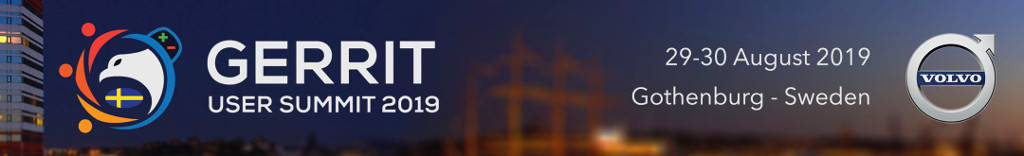
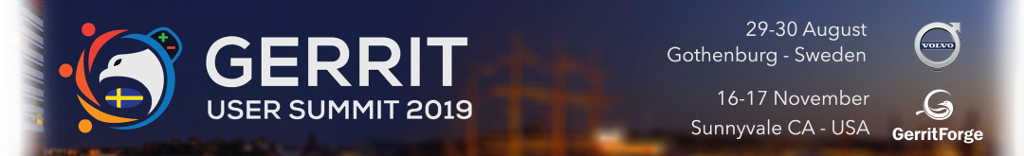
Add the send date/location for the Summit USA

diff --git a/index.md b/index.md
@@ -6,26 +6,67 @@ The Gerrit Community is happy to announce the Gerrit User Summit & Hackathon 201
 THE event of the year for everything related to Gerrit Code Review and the
 trunk-based development pipeline.
 
-## Where
+## One Summit, two events
 
-The Gerrit User Summit & Hackathon is hosted by [Volvo Cars at their HQ in Gothenburg
-(Sweden)](https://goo.gl/maps/rsjB5vsFXE2tQ5i6A) in cooperation with [GerritForge](http://www.gerritforge.com) and the [Gerrit Community](https://groups.google.com/forum/#!topic/repo-discuss/uVQbBOC9IeU).
+The Gerrit User Summit & Hackathon is composed of **two different events and locations**,
+one in Sweden (Europe) and another in California (USA), to allow most of the community around
+the globe to attend and share their experience and ideas.
 
-## When
-
-The event starts with a 5-days Hackathon 24-28th August reserved for the current
+The first part of the event is a 5-days Hackathon reserved for the current
 Gerrit contributors and maintainers plus anyone that is willing to start contributing
 to the platform.
 
-It will then follow with a 2-days summit 29-30th August opened to all the members
+It will then follow with a 2-days Users Summit opened to all the members
 of the community or who is willing to learn and adopt Gerrit Code Review in their
 development process.
 
-The registration for the Hackathon and the User Summit is opened to
+> Please note that the seats for the Hackathon are limited and your request could be declined by
+> the organizer. We will do our best, however, to get people in and help increasing the community
+> of contributors.
+
+## How to register
+
+The access for the Hackathon and the User Summit is FREE and potentialy opened to
 everyone, prior registration on [EventBrite](https://gus2019.eventbrite.com).
 
-## Why a Gerrit User Summit is back to Europe?
+### Gerrit User Summit - Europe
+
+*Location*
+
+The Gerrit User Summit & Hackathon is hosted and sponsored by [Volvo Cars at their HQ in Gothenburg
+(Sweden)](https://goo.gl/maps/rsjB5vsFXE2tQ5i6A) in cooperation with [GerritForge](http://www.gerritforge.com) and the [Gerrit Community](https://groups.google.com/forum/#!topic/repo-discuss/uVQbBOC9IeU).
+
+*Dates*
+
+- The Hackathon (reserved for Gerrit maintainers and contributors):
+24-28th August 2019](https://calendar.google.com/event?action=TEMPLATE&tmeid=NnEzcmxlbGtpam0zdDNhYXNqZjFjMmVwM2cgZ29vZ2xlLmNvbV91YmIxcGxhNmlqNzg1b3FianI2MWg0dmRpc0Bn&tmsrc=google.com_ubb1pla6ij785oqbjr61h4vdis%40group.calendar.google.com)
+- The Summit (open for all members of the Gerrit Community):
+[29-30th August 2019](https://calendar.google.com/event?action=TEMPLATE&tmeid=N3FhOTduMGJnOWphcXQ0Y3RpcG8xcDdxaWUgZ29vZ2xlLmNvbV91YmIxcGxhNmlqNzg1b3FianI2MWg0dmRpc0Bn&tmsrc=google.com_ubb1pla6ij785oqbjr61h4vdis%40group.calendar.google.com)
+
+### Gerrit User Summit - USA
+
+*Location*
+
+The Gerrit User Summit & Hackathon is hosted and sponsored by [GerritForge Inc in Sunnyvale
+(California)](https://goo.gl/maps/no8vCBpqi61pv2jx5) in cooperation with the
+[Gerrit Community](https://groups.google.com/forum/#!topic/repo-discuss/uVQbBOC9IeU).
+
+*Dates*
+
+- The Hackathon (reserved for Gerrit maintainers and contributors):
+[11-15th November 2019](https://calendar.google.com/event?action=TEMPLATE&tmeid=NXRqcDZkM283aGZjdjJxaG9wbWEwM2dianMgZ29vZ2xlLmNvbV91YmIxcGxhNmlqNzg1b3FianI2MWg0dmRpc0Bn&tmsrc=google.com_ubb1pla6ij785oqbjr61h4vdis%40group.calendar.google.com)
+- The Summit (open for all members of the Gerrit Community):
+[16-17th November 2019](https://calendar.google.com/event?action=TEMPLATE&tmeid=NjRnMjhsajl1dW9yaHNhcDhtdjNwZWw1bXMgZ29vZ2xlLmNvbV91YmIxcGxhNmlqNzg1b3FianI2MWg0dmRpc0Bn&tmsrc=google.com_ubb1pla6ij785oqbjr61h4vdis%40group.calendar.google.com)
+
+## Why two Gerrit User Summits, in Europe and USA?
 
 Starting from 2017, we promised to get in touch with a *wider and more diverse community*,
-and, as promised, we are keen to listen to all Gerrit Users around the world, including
-those located in Europe.
+and, as promised, we are keen to listen to all Gerrit Users around the world.
+
+Historically most of the Gerrit users were located in the USA. However, recently the adoption
+has extended to many other locations around the world, including India, China, Korea and most
+of the central and northern European countries.
+
+Having two events on both sides of the Atlantic would help increasing the diversity of the
+people attending the event and having a more organic and complete feedback on the direction
+of the Gerrit roadmap.

diff --git a/schedule-usa.md b/schedule-usa.md
@@ -1,0 +1,50 @@
+# Gerrit User Summit USA 2019 - Schedule
+
+## Hackathon, 11-15th November (Mon-Fri)
+
+| Time  | Session                                                 |
+|-------|---------------------------------------------------------|
+|  8:30 | Registration Opens, Breakfast                           |
+|  9:30 | Presentation of the hackathon topics, introductions     |
+| 10:30 | Coding                                                  |
+| 12:15 | Lunch & Networking                                      |
+| 14:00 | Coding                                                  |
+| 17:00 | End of the day                                          |
+
+## The User Summit
+
+Introduction, intermediate and advanced sessions on Gerrit Code Review.
+
+### Thursday 16th November
+
+| Time  | Session                                                                                      |
+|-------|----------------------------------------------------------------------------------------------|
+|  8:30 | Registration Opens, Breakfast, Networking                                                    |
+|  9:00 | Welcome to GerritForge Inc. - KeyNote introduction                                           |
+|  9:30 | What's new in Gerrit v3.0                                                                    |
+| 10:30 | Break & Networking                                                                           |
+| 10:45 | First-class Gerrit CI integration with Checks                                                |
+| 11:45 | Gerrit goes multi-site                                                                       |
+| 12:45 | Lunch & Networking                                                                           |
+| 14:00 | Prolog-less submit rules, easy and for everyone                                              |
+| 15:00 | << Gerrit case study - slot available >>                                                     |
+| 16:00 | Break & Networking                                                                           |
+| 16:30 | << Gerrit case study - slot available >>                                                     |
+| 17:30 | End of Day 1                                                                                 |
+| 19:00 | Dinner - Celebrations for Gerrit v3.0                                                        |
+
+### Friday 17th November
+
+| Time  | Session                                                                                      |
+|-------|----------------------------------------------------------------------------------------------|
+|  9:00 | Breakfast, Networking                                                                        |
+| 10:00 | Gerrit Review Analytics applied to the Android OpenSource Project                            |
+| 11:00 | Community Retrospective - Part 1                                                             |
+| 11:45 | Break                                                                                        |
+| 12:00 | Community Retrospective - Part 2                                                             |
+| 12:45 | Lunch & Networking                                                                           |
+| 14:00 | << Gerrit case study - slot available >>                                                     |
+| 15:00 | End-to-End Git/Gerrit testing with Gatling                                                   |
+| 16:00 | Break & Networking                                                                           |
+| 16:15 | Wrap-up and proposals for future Summits                                                     |
+| 17:00 | End of the Gerrit User Summit                                                                |

diff --git a/location-usa.md b/location-usa.md
@@ -1,0 +1,70 @@
+# Gerrit User Summit USA 2019 - Location
+
+## USA - Hosted by GerritForge
+
+The User Summit is hosted by GerritForge at [The Satellite - Sunnyvale](https://goo.gl/maps/no8vCBpqi61pv2jx5).
+
+See below the full address of the location:
+
+```
+100 S Murphy Ave Suite 200
+Sunnyvale, CA 94086
+USA
+```
+
+If you are coming by car, there is free parking in the areas near Target.
+
+## Check-in Instructions
+
+When you arrive at 100 S Murphy Avenue, please enter through the
+[east entrance](https://goo.gl/maps/dcWVSNoytvBvTLpv8) between E Evelyn Ave and S Sunnyvale Ave
+which faces the parking lot. Once entered into the building, go to the 2nd floor (for americans)
+or 1st floor above ground (for europeans).
+
+You will then find the signs of the Gerrit User Summit and GerritForge Inc. outside the door and the
+welcome desk of the event.
+
+You will receive at check-in:
+
+- The Gerrit User Summit conference badge
+- The Gerrit v3.0 celebration T-Shirt
+- Stickers to remember about the event and on Gerrit Code Review
+
+## Hotels and Places to Stay
+
+There are plenty of options for Hotels and Inns around Sunnyvale. However, at times, availability can
+be limited because of the convenient location close to the [CalTrain station](http://www.caltrain.com/stations/sunnyvalestation.html).
+
+We recommend one of the following two hotels nearby:
+
+- [Maple Tree Inn](https://www.mapletreeinn.com/), 711 E El Camino Real, Sunnyvale, CA 94087, USA
+- [Wild Palms Hotel](https://www.jdvhotels.com/hotels/california/sunnyvale/wild-palms-hotel), 910 EAST FREMONT AVENUE, SUNNYVALE, CA 94087
+
+## How to reach GerritForge from the San Jose Airport
+
+__By Car__
+
+The travelling time from the San Jose Airport to downtown Sunnyvale is typically around 20 mins. However,
+traffic conditions change rapidily in the Silicon Valley and the best route changes consequently.
+
+Under normal conditions (very early morning, late evening and week-ends), the best route is:
+- Get on CA-87 N from Airport Blvd
+- Take US-101 N to N Mathilda Ave in Sunnyvale. Take the exit for Mathilda Avenue S from US-101 N
+- Continue on N Mathilda Ave. Drive to S Murphy Ave
+- Park in the nearby parking space next to Target
+
+__By Taxi__
+
+[Uber](http://www.uber.com) and [Lyft](http://www.lyft.com) are the most popular ways of moving
+around in the Silicon Valley. Use them if you are concerned about not finding parking space in Sunnyvale.
+
+## Facility Resources
+
+__Food and Drink__
+
+Lunch will be provided at The Satellite location during the Summit.
+Water and coffee will be available on-site also.
+
+__Internet__
+
+Wifi will be available to all attendees.

diff --git a/schedule-europe.md b/schedule-europe.md
@@ -1,6 +1,6 @@
-# Gerrit User Summit 2019 - Schedule
+# Gerrit User Summit Europe 2019 - Schedule
 
-## Hackathon, 24-28th August
+## Hackathon, 24-28th August (Sat-Wed)
 
 | Time  | Session                                                 |
 |-------|---------------------------------------------------------|
@@ -39,9 +39,9 @@ Introduction, intermediate and advanced sessions on Gerrit Code Review.
 |-------|----------------------------------------------------------------------------------------------|
 |  9:00 | Breakfast, Networking                                                                        |
 | 10:00 | Gerrit Review Analytics applied to the Android OpenSource Project                            |
-| 11:00 | Community Retrospective - Part 1
-| 11:45 | Break
-| 12:00 | Community Retrospective - Part 2
+| 11:00 | Community Retrospective - Part 1                                                             |
+| 11:45 | Break                                                                                        |
+| 12:00 | Community Retrospective - Part 2                                                             |
 | 12:45 | Lunch & Networking                                                                           |
 | 14:00 | Gertty, console-based interface to the Gerrit Code Review system                             |
 | 15:00 | End-to-End Git/Gerrit testing with Gatling                                                   |

diff --git a/navbar.md b/navbar.md
@@ -1,7 +1,9 @@
 * [**REGISTER**](https://gus2019.eventbrite.com)
 * [Home](/index.md)
-* [Location](/location.md)
-* [Schedule](/schedule.md)
+* [Location (Europe)](/location-europe.md)
+* [Schedule (Europe)](/schedule-europe.md)
+* [Location (USA)](/location-usa.md)
+* [Schedule (USA)](/schedule-usa.md)
 * [Speakers](/speakers.md)
 * [Overview](/overview.md)
 * [Conduct Policy](/conduct-policy.md)

diff --git a/location-europe.md b/location-europe.md
@@ -1,6 +1,6 @@
-# Gerrit User Summit 2019 - Location
+# Gerrit User Summit Europe 2019 - Location
 
-## Hosted by Volvo Cars
+## Europe - Hosted by Volvo Cars
 
 The User Summit is hosted by Volvo Cars in [Volvohallen](https://goo.gl/maps/HWHd11EkEP6YPAjD7).
 
